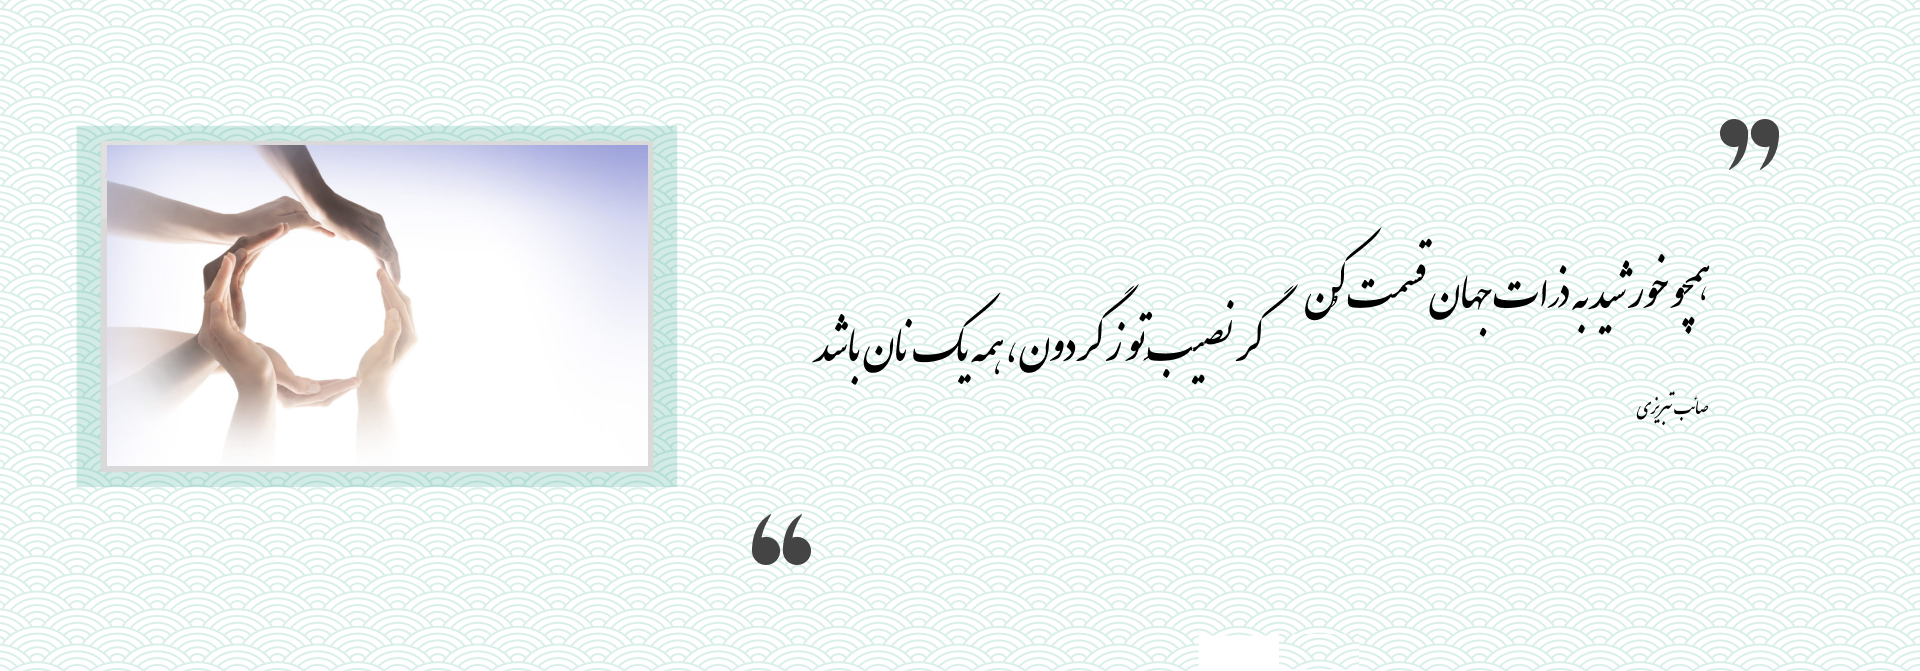
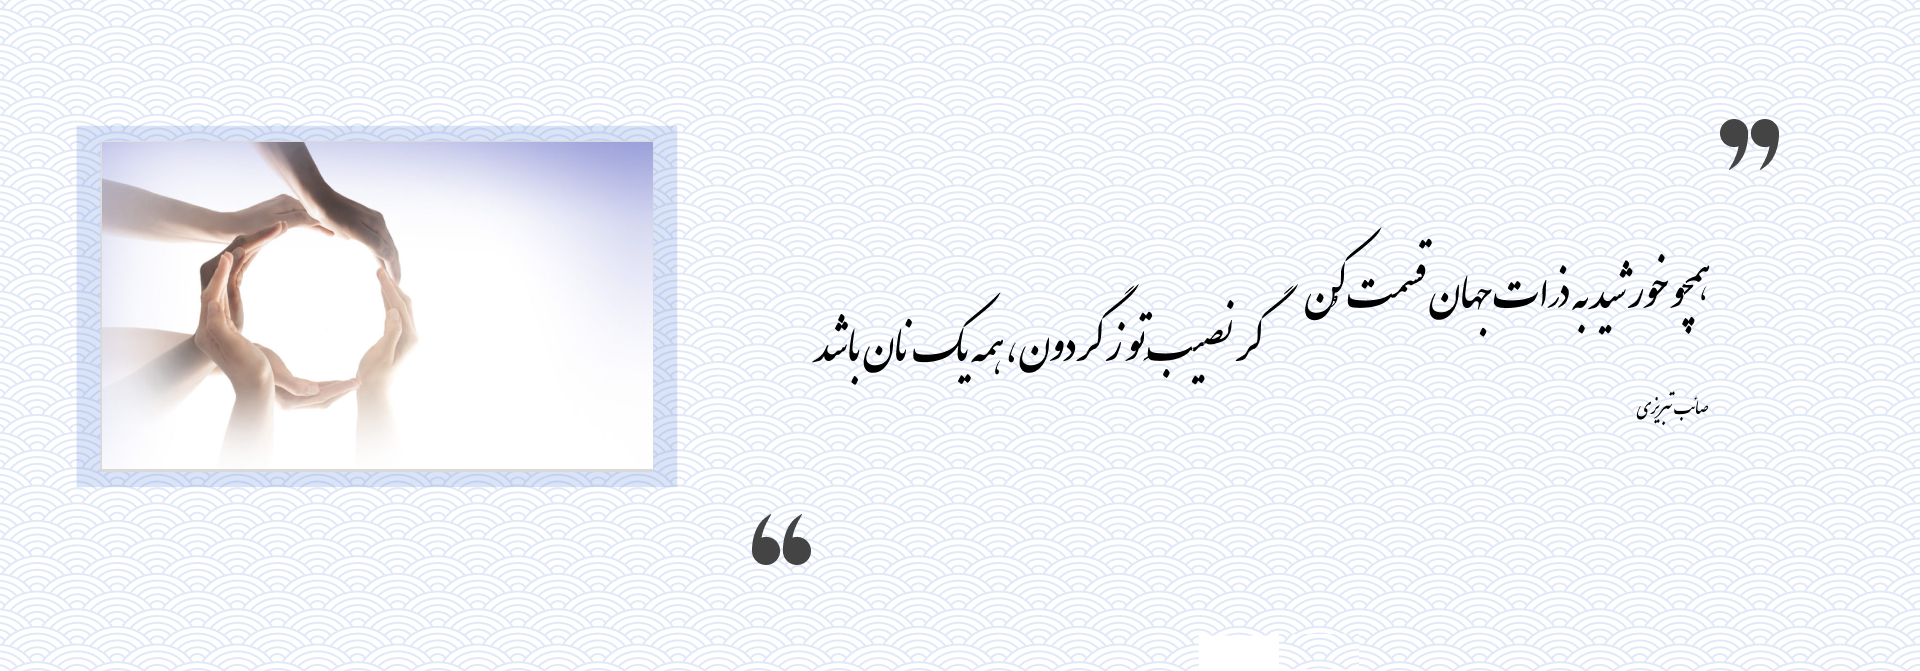
get all charities for each person connected to back

diff --git a/src/components/DashboardPage/Posts.jsx b/src/components/DashboardPage/Posts.jsx
@@ -106,6 +106,7 @@ const Posts = () => {
     const [ image , setImage ] = useState ( "" );
     const { isIn , setIsIn } = useContext ( DakhelContext );
     let imagePath = "http://127.0.0.1:8000/media/ads/";
+    const [ alCharity , setAlCharity ] = useState ( null )
 
     let value = ""
     const [ data , setData ] = useState ( {
@@ -124,14 +125,14 @@ const Posts = () => {
         ( _ , index ) => index + 1
     );
     const updateDateTime = () => {
-        const now = new Date();
-        const isoString = now.toISOString();
-        setDate(isoString);
+        const now = new Date ();
+        const isoString = now.toISOString ();
+        setDate ( isoString );
     };
     useEffect ( () => {
         value = localStorage.getItem ( "token" );
-        updateDateTime()
-    }  )
+        updateDateTime ()
+    } )
     const handlePageClick = ( page ) => {
         setCurrentPage ( page );
     };
@@ -152,8 +153,8 @@ const Posts = () => {
     };
     const handleDateChange = ( e ) => {
         e.preventDefault ();
-        console.log(date)
-        console.log(value)
+        console.log ( date )
+        console.log ( value )
         const formData = new FormData ()
         formData.append ( 'image' , data.image , data.image.name )
         formData.append ( 'title' , data.title )
@@ -169,7 +170,7 @@ const Posts = () => {
                 "http://127.0.0.1:8000/charity/api/v1/ads/" , formData ,
                 {
                     headers : {
-                        'Authorization' : `JWT ${value}` ,
+                        'Authorization' : `JWT ${ value }` ,
                         "Content-Type" : "multipart/form-data"
                     } ,
                 }
@@ -186,6 +187,18 @@ const Posts = () => {
     const onButtonClick = () => {
 
     };
+    useEffect ( () => {
+        axios.get ( 'http://127.0.0.1:8000/charity/api/v1/user-advertisements/' , {
+            headers : {
+                'Authorization' : `JWT ${ value }`
+            }
+        } )
+            .then ( r => {
+                setAlCharity ( r.data )
+                console.log(alCharity)
+            } )
+
+    } , [] )
 
     // api-call
 

diff --git a/src/components/mainPages/AboutUs/AboutUs.js b/src/components/mainPages/AboutUs/AboutUs.js
@@ -9,6 +9,7 @@ import middleTriplePart from "../../../images/AboutUs/middleone.png"
 import rightAndLeftDots from "../../../images/AboutUs/dots.png"
 import leftTriplePart from "../../../images/AboutUs/leftone.png"
 import endImagePic from "../../../images/AboutUs/end.png"
+import { Link } from "react-router-dom";
 const AboutUs = () => {
     return (
         <>
@@ -95,9 +96,11 @@ const AboutUs = () => {
 
                     </div>
                     <div className={ styles.buttonContainer }>
+                        <Link to='/signUp'>
                         <button className={ styles.buttonSignUp }>
                             شروع و ثبت نام
                         </button>
+                        </Link>
                     </div>
                 </div>
                 <div className={styles.endContainer}>

diff --git a/src/components/mainPages/AboutUs/AboutUs.module.css b/src/components/mainPages/AboutUs/AboutUs.module.css
@@ -68,7 +68,7 @@
 .imageContainer {
     width: 1502px;
     height: 1008px;
-    background: rgba(33, 157, 128, 0.2);
+    background: rgba(77, 122, 210, 0.2);
     margin-top: 8px;
     margin-left: 209px;
     margin-right: 209px;
@@ -106,11 +106,12 @@
 .tripleContainer {
     margin-left: 272px;
     margin-top: 89px;
-    margin-right: 198px;
+    margin-right: 220px;
     display: flex;
     justify-content: center;
     flex-direction: column;
     align-items: center;
+    width: 1450px;
 }
 
 .TriplePart {
@@ -234,7 +235,7 @@
     display: flex;
     justify-content: center;
     align-items: center;
-    background: #219D80;
+    background: #4D7AD2;
     border-radius: 10px;
     flex-direction: row;
     padding: 12px 24px;

diff --git a/src/components/common/Navbar/Navbar.jsx b/src/components/common/Navbar/Navbar.jsx
@@ -17,7 +17,7 @@ const Navbar = ({ active, dark }) => {
   const links = [
     { key: "map", value: "نقشه راه " },
     { key: "contact_us", value: "ارتباط با ما" },
-    { key: "about_us", value: " درباره ما" },
+    { key: "/AboutUs", value: " درباره ما" },
     { key: "home", value: "خانه" },
   ];
   const getIn = (
